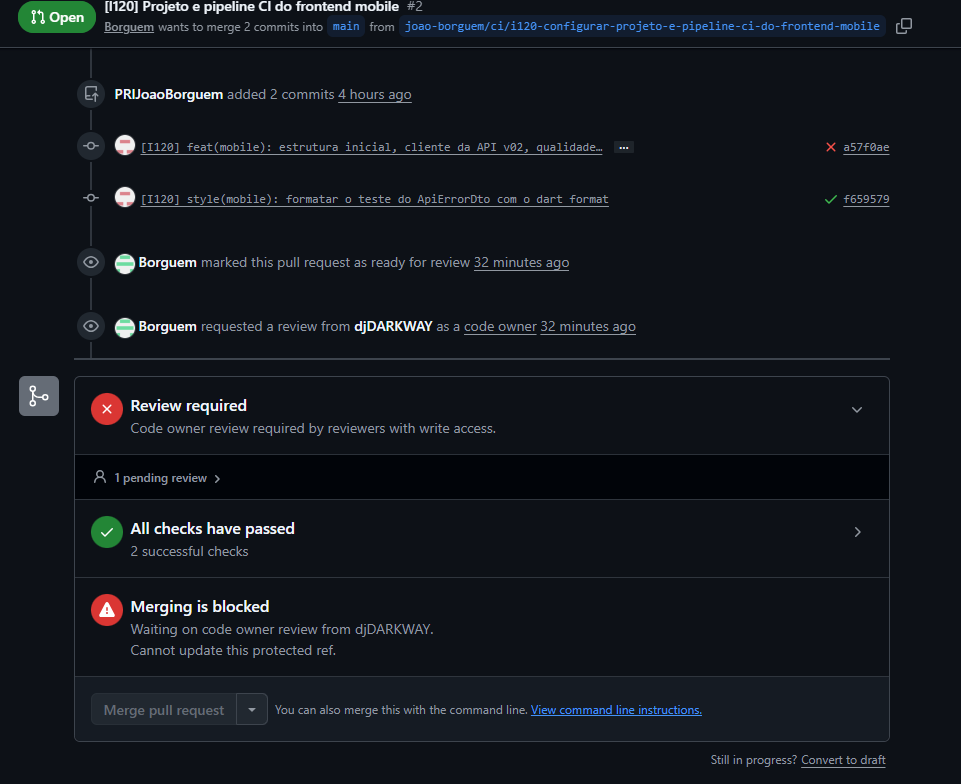
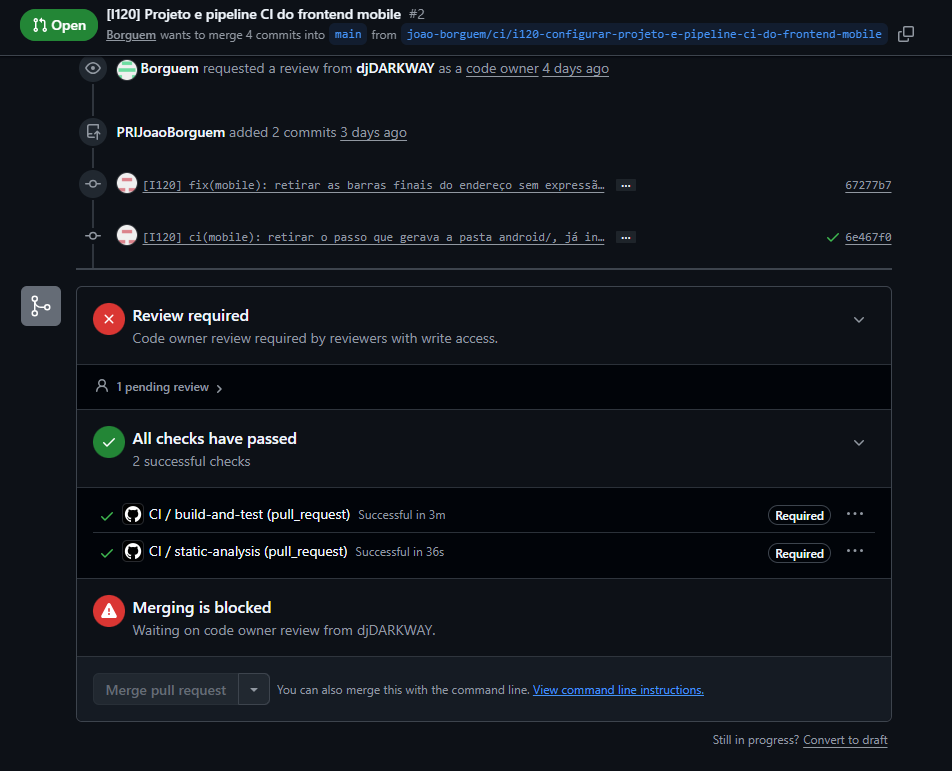
[I120] docs(ci-cd): melhorias da revisão — ligações M3/M4, W3, M1 sobre 6e467f0, rulesets, code owners e CI do backend

diff --git a/04-artefactos-tecnicos/04.16-ci-cd/m4-relatorio-evidencias-pipeline-ci-cd-frontends-v01.md b/04-artefactos-tecnicos/04.16-ci-cd/m4-relatorio-evidencias-pipeline-ci-cd-frontends-v01.md
@@ -28,6 +28,7 @@
 | Versão | Data | Descrição das alterações | Issue |
 | --- | --- | --- | --- |
 | v01 | 2026-11-05 | Criação do documento: pipelines dos dois frontends, uma execução de sucesso e três execuções bloqueadas em cada repositório (erro de build, cobertura inferior a 40% e análise estática falhada) e regras de proteção da `main`. | `I120` |
+| v01 (revisão) | 2026-11-10 | Melhorias da revisão da `I120`: ligações das execuções M3 e M4 corrigidas (M01); W3 com 5 dos 7 ficheiros de testes retirados (M03); M1 sobre `6e467f0`, com a função sem expressão regular do mobile (M02) e sem o passo que gerava `android/` (M04); rulesets recriados sem «Restrict updates» e code owners (M06); verificação do CI do backend depois da reescrita do secret (M07). | `I120` |
 
 ---
 
@@ -92,14 +93,14 @@ Os ficheiros são cópias exatas dos ramos da I120 nas versões indicadas na sec
 | --- | --- | --- | --- | --- | --- | --- | --- |
 | W1 | web | Sucesso | [#2](https://github.com/katch-lds/katch-frontend-web/pull/2) | `3b9c1ae38f1a0130d22f23bf0a021003a78fcd72` | Versão entregue da `I120` | Dois jobs com sucesso; Quality Gate OK | [42114963370](https://github.com/katch-lds/katch-frontend-web/actions/runs/42114963370) |
 | W2 | web | Bloqueio por build falhado (QG-01) | [#3](https://github.com/katch-lds/katch-frontend-web/pull/3) | `c487c25ea5c4508f00db4a5e3b4f4687963cb718` | `const erroDeCompilacao: number = 'I120';` em `App.tsx` | `build-and-test` falha no QG-01; merge bloqueado | [42116725708](https://github.com/katch-lds/katch-frontend-web/actions/runs/42116725708) |
-| W3 | web | Bloqueio por cobertura inferior a 40% | [#4](https://github.com/katch-lds/katch-frontend-web/pull/4) | `d13c1eb9818092d2f9c780c2a3095852555cb52b` | Retirados 5 dos 6 ficheiros de testes | `build-and-test` e `static-analysis` falham nos testes com cobertura; merge bloqueado | [42116777547](https://github.com/katch-lds/katch-frontend-web/actions/runs/42116777547) |
+| W3 | web | Bloqueio por cobertura inferior a 40% | [#4](https://github.com/katch-lds/katch-frontend-web/pull/4) | `d13c1eb9818092d2f9c780c2a3095852555cb52b` | Retirados 5 dos 7 ficheiros de testes | `build-and-test` e `static-analysis` falham nos testes com cobertura; merge bloqueado | [42116777547](https://github.com/katch-lds/katch-frontend-web/actions/runs/42116777547) |
 | W4 | web | Bloqueio por análise estática falhada (QG-05) | [#5](https://github.com/katch-lds/katch-frontend-web/pull/5) | `9516a4f93cdcd0809fdd1025bc8336b1bc17085a` | `HttpApiClientCopia.ts`, cópia integral do cliente da API | `static-analysis` falha no Quality Gate (duplicação acima de 3%); merge bloqueado | [42123724658](https://github.com/katch-lds/katch-frontend-web/actions/runs/42123724658) |
-| M1 | mobile | Sucesso | [#2](https://github.com/katch-lds/katch-frontend-mobile/pull/2) | `f6595791d64702b377bce1a82eb770f8c06bb815` | Versão entregue da `I120` | Dois jobs com sucesso | [42078961190](https://github.com/katch-lds/katch-frontend-mobile/actions/runs/42078961190) |
+| M1 | mobile | Sucesso | [#2](https://github.com/katch-lds/katch-frontend-mobile/pull/2) | `6e467f0` (antes: `f6595791d64702b377bce1a82eb770f8c06bb815`) | Versão entregue da `I120` | Dois jobs com sucesso | [checks do PR #2](https://github.com/katch-lds/katch-frontend-mobile/pull/2/checks) (antes: [42078961190](https://github.com/katch-lds/katch-frontend-mobile/actions/runs/42078961190)) |
 | M2 | mobile | Bloqueio por build falhado (QG-01) | [#3](https://github.com/katch-lds/katch-frontend-mobile/pull/3) | `7afc7edec242caf2e7955bd23e21dfe2864c82ac` | `final int erroDeCompilacao = 'I120';` em `main.dart` | `build-and-test` falha no QG-01; `static-analysis` também, pela mesma causa; merge bloqueado | [42116440559](https://github.com/katch-lds/katch-frontend-mobile/actions/runs/42116440559) |
-| M3 | mobile | Bloqueio por cobertura inferior a 40% | [#5](https://github.com/katch-lds/katch-frontend-mobile/pull/5) | `090ec6434fb5efd50b4c832f84fc792d5b908252` | Retirados os testes do cliente da API, dos modelos, do monitor, da consulta periódica e da configuração | `build-and-test` falha no passo da cobertura; merge bloqueado | [42116557654](https://github.com/katch-lds/katch-frontend-mobile/actions/runs/42116557654) |
-| M4 | mobile | Bloqueio por análise estática falhada (QG-05) | [#4](https://github.com/katch-lds/katch-frontend-mobile/pull/4) | `8d6d313428aca59b3229b964689f274eea8d0858` | `print('Prova de bloqueio da I120');` em `main.dart` | `static-analysis` falha no `flutter analyze` (`avoid_print`); merge bloqueado | [42116616608](https://github.com/katch-lds/katch-frontend-mobile/actions/runs/42116616608) |
+| M3 | mobile | Bloqueio por cobertura inferior a 40% | [#5](https://github.com/katch-lds/katch-frontend-mobile/pull/5) | `090ec6434fb5efd50b4c832f84fc792d5b908252` | Retirados os testes do cliente da API, dos modelos, do monitor, da consulta periódica e da configuração | `build-and-test` falha no passo da cobertura; merge bloqueado | [42116616608](https://github.com/katch-lds/katch-frontend-mobile/actions/runs/42116616608) |
+| M4 | mobile | Bloqueio por análise estática falhada (QG-05) | [#4](https://github.com/katch-lds/katch-frontend-mobile/pull/4) | `8d6d313428aca59b3229b964689f274eea8d0858` | `print('Prova de bloqueio da I120');` em `main.dart` | `static-analysis` falha no `flutter analyze` (`avoid_print`); merge bloqueado | [42116557654](https://github.com/katch-lds/katch-frontend-mobile/actions/runs/42116557654) |
 
-Todas as execuções são do evento `pull_request` de 2026-11-05.
+Todas as execuções são do evento `pull_request` de 2026-11-05, exceto a M1 final, de 2026-11-06, sobre `6e467f0`.
 
 ---
 
@@ -140,7 +141,7 @@ A primeira execução sobre `2b6bb46` falhou no Quality Gate com fiabilidade C: 
 | Merge Request | <https://github.com/katch-lds/katch-frontend-web/pull/4> (fechado sem merge) |
 | Execução | <https://github.com/katch-lds/katch-frontend-web/actions/runs/42116777547> |
 | Commit | `d13c1eb` — «[I120] test(ci): prova de bloqueio da cobertura, testes retirados no frontend web (não integrar)» (2026-11-05 21:47) |
-| Alteração | Retirados `ApiError.test.ts`, `ConnectionMonitor.test.ts`, `HttpApiClient.test.ts`, `PollingLoop.test.ts` e `SessionStore.test.ts`; fica só o teste da `App` |
+| Alteração | Retirados `ApiError.test.ts`, `ConnectionMonitor.test.ts`, `HttpApiClient.test.ts`, `PollingLoop.test.ts` e `SessionStore.test.ts`; ficam os testes da `App` e de `utils/url` |
 | Causa do bloqueio | Os testes que restam passam, mas o Jest termina sem sucesso porque a cobertura de linhas fica abaixo do limiar de 40% (`coverageThreshold`): `build-and-test` falha no passo dos testes com cobertura. O `static-analysis` falha também, no passo que corre os mesmos testes para a cobertura importada, pela mesma causa (como na execução E3 do backend). |
 
 ![W3 — bloqueio por cobertura inferior a 40%](evidencias/i120-web-04-bloqueio-cobertura.png)
@@ -168,12 +169,12 @@ A primeira versão desta prova (`14aa07b`) copiou o cliente da API anterior à c
 | Campo | Informação |
 | --- | --- |
 | Merge Request | <https://github.com/katch-lds/katch-frontend-mobile/pull/2> |
-| Execução | <https://github.com/katch-lds/katch-frontend-mobile/actions/runs/42078961190> |
-| Commit | `f659579` — «[I120] style(mobile): formatar o teste do ApiErrorDto com o dart format» (2026-11-05 17:53), sobre `a57f0ae` (estrutura inicial, 17:31) |
-| `build-and-test` | Sucesso: testes unitários e de widget, cobertura de linhas acima de 40% e APK de depuração |
-| `static-analysis` | Sucesso: `dart format` sem alterações e `flutter analyze` sem ocorrências |
+| Execução | Checks do PR #2 sobre `6e467f0`: <https://github.com/katch-lds/katch-frontend-mobile/pull/2/checks>. Primeira execução de sucesso, sobre `f659579`: <https://github.com/katch-lds/katch-frontend-mobile/actions/runs/42078961190> |
+| Commit | `6e467f0` — «[I120] ci(mobile): retirar o passo que gerava a pasta android/, já integrada no repositório» (2026-11-06 16:18), sobre `67277b7` — «[I120] fix(mobile): retirar as barras finais do endereço sem expressão regular, como no web» (16:18), `f659579` (formatação, 2026-11-05 17:53) e `a57f0ae` (estrutura inicial, 17:31) |
+| `build-and-test` | Sucesso: 16 testes unitários e de widget, cobertura de linhas acima de 40% e APK de depuração (3 min) |
+| `static-analysis` | Sucesso: `dart format` sem alterações e `flutter analyze` sem ocorrências (36 s) |
 
-A primeira execução sobre `a57f0ae` falhou no `dart format` (um ficheiro de teste por formatar); o commit `f659579` corrigiu-o.
+A primeira execução sobre `a57f0ae` falhou no `dart format` (um ficheiro de teste por formatar); o commit `f659579` corrigiu-o. Depois da revisão, o `67277b7` substituiu a expressão regular `/+$` do `AppConfig` e do `HttpApiClient` pela função `trimTrailingSlashes` (`lib/core/url.dart`, com teste), como no web (W1), e o `6e467f0` retirou os passos que geravam e publicavam a pasta `android/`, já integrada no repositório. A captura mostra os dois checks com sucesso e a marca *Required*, e o merge à espera da revisão do code owner.
 
 ![M1 — execução de sucesso](evidencias/i120-mobile-01-execucao-sucesso.png)
 
@@ -194,7 +195,7 @@ A primeira execução sobre `a57f0ae` falhou no `dart format` (um ficheiro de te
 | Campo | Informação |
 | --- | --- |
 | Merge Request | <https://github.com/katch-lds/katch-frontend-mobile/pull/5> (fechado sem merge) |
-| Execução | <https://github.com/katch-lds/katch-frontend-mobile/actions/runs/42116557654> |
+| Execução | <https://github.com/katch-lds/katch-frontend-mobile/actions/runs/42116616608> |
 | Commit | `090ec64` — «[I120] test(ci): prova de bloqueio da cobertura, testes retirados no frontend mobile (não integrar)» (2026-11-05 21:49) |
 | Alteração | Retirados os testes do `ApiErrorDto`, do `ConnectionMonitor`, do `PollingLoop` e do `AppConfig`; o teste do cliente da API fica reduzido à criação do cliente |
 | Causa do bloqueio | Os testes que restam passam, mas `build-and-test` falha no passo «Cobertura de linhas ≥ 40%», com a anotação «Cobertura insuficiente». O `static-analysis` passa. |
@@ -206,7 +207,7 @@ A primeira execução sobre `a57f0ae` falhou no `dart format` (um ficheiro de te
 | Campo | Informação |
 | --- | --- |
 | Merge Request | <https://github.com/katch-lds/katch-frontend-mobile/pull/4> (fechado sem merge) |
-| Execução | <https://github.com/katch-lds/katch-frontend-mobile/actions/runs/42116616608> |
+| Execução | <https://github.com/katch-lds/katch-frontend-mobile/actions/runs/42116557654> |
 | Commit | `8d6d313` — «[I120] test(ci): prova de bloqueio QG-05, print no código do frontend mobile (não integrar)» (2026-11-05 21:50) |
 | Alteração | `print('Prova de bloqueio da I120');` em `lib/main.dart` |
 | Causa do bloqueio | O build e os testes passam (`build-and-test` com sucesso), mas o `static-analysis` falha no passo «QG-05 Análise estática (Dart analyzer com flutter_lints)»: a regra `avoid_print` gera uma ocorrência de nível info, tratada como erro por `--fatal-infos`. |
@@ -217,11 +218,13 @@ A primeira execução sobre `a57f0ae` falhou no `dart format` (um ficheiro de te
 
 ## 7. Regras de proteção da `main`
 
-Cada repositório tem o ruleset «Protect main», aplicado ao ramo predefinido (`main`): «Restrict updates» e «Restrict deletions», Pull Request obrigatório com 1 aprovação e revisão do code owner, os checks `build-and-test` e `static-analysis` obrigatórios, com o ramo atualizado antes do merge, e «Block force pushes». Nas capturas W1 a W4 e M1 a M4, os dois checks aparecem com a marca *Required*; nas execuções de bloqueio, o Merge Request mostra o check obrigatório falhado e *Merging is blocked*, com o botão de merge indisponível.
+Cada repositório tem o ruleset «Protect main», ativo e aplicado ao ramo predefinido (`main`), sem lista de bypass: «Restrict deletions»; Pull Request obrigatório com 1 aprovação e revisão do code owner; os checks `build-and-test` e `static-analysis` obrigatórios (GitHub Actions), com o ramo atualizado antes do merge; e «Block force pushes». Os métodos de merge permitidos pelo ruleset são Merge, Squash e Rebase; o Merge Commit pelo Revisor é regra do grupo (Regulamento Interno, secção 10.4). Nas capturas W1 a W4 e M1 a M4, os dois checks aparecem com a marca *Required*; nas execuções de bloqueio, o Merge Request mostra o check obrigatório falhado e *Merging is blocked*, com o botão de merge indisponível.
 
 A mensagem *Merging is blocked* refere também a revisão do code owner, que é outra condição da mesma regra. Mesmo com a aprovação, o merge continuaria impedido enquanto um check obrigatório falhasse. Nos Merge Requests W1 e M1, os dois checks passaram e o merge fica dependente só da revisão e da aceitação da `I120`.
 
-Os dois rulesets incluem a regra «Restrict updates», que só deixa atualizar a `main` a quem tem permissão de bypass. Foi esta regra que, no backend, impediu o merge pelo Revisor e levou à NC-014, depois da qual foi retirada do ruleset do `katch-backend`. Se se mantiver nos frontends, o Revisor da `I120` (e das Issues seguintes) não consegue fazer o merge sem bypass; a regra deve ser revista pelo administrador antes da aceitação.
+Os rulesets foram recriados a 2026-11-06 sem a regra «Restrict updates», que só deixava atualizar a `main` a quem tivesse permissão de bypass e que, no backend, impediu o merge pelo Revisor (NC-014). Assim, o Revisor pode integrar o Merge Request depois das aprovações exigidas.
+
+Os code owners (`.github/CODEOWNERS`) diferem entre os repositórios porque seguem os responsáveis de cada repositório (Regulamento Interno, secções 10.1 e 14.2): `@RobertoBatista28` (Roberto Baptista) no `katch-frontend-web` e `@djDARKWAY` (João Coelho) no `katch-frontend-mobile`. No web, a revisão do code owner é pedida a Roberto Baptista, além da aprovação do Revisor da Issue.
 
 ![Ruleset «Protect main» do katch-frontend-web](evidencias/i120-web-06-regra-protecao-main.png)
 
@@ -232,6 +235,7 @@ Os dois rulesets incluem a regra «Restrict updates», que só deixa atualizar a
 ## 8. Credenciais e limitações
 
 - **Credenciais:** o único secret é o `SONAR_ADMIN_PASSWORD` do `katch-frontend-web`; o token da análise é gerado em cada execução. Ambos ficam mascarados nos logs, e nenhuma captura mostra segredos. O mobile não usa secrets. A configuração por ambiente (`.env.development` e `.env.example` no web; `--dart-define=API_BASE_URL` no mobile) não contém segredos.
+- **Secret do backend:** o `SONAR_ADMIN_PASSWORD` do `katch-backend` foi reescrito durante a `I120`. O CI do backend foi executado depois na `main` (execução n.º 144 do workflow `CI`, manual) e terminou com sucesso, incluindo a análise SonarQube e o Quality Gate.
 - **SonarQube no mobile:** ver a secção 3.2 e a NC-033.
 - **QG-06 e QG-07:** os passos estão preparados e correm logo que existam os testes de sistema (`playwright.config.ts` no web; `integration_test/*_test.dart` no mobile). Não foram exercitados nesta Issue.
 - **Versões:** TypeScript 6.0 em vez da 7.0.x das convenções (o `typescript-eslint` 8 não suporta a 7) e ESLint 10 com `eslint.config.js` em vez de `.eslintrc.json`. Ficam abrangidos pela ação corretiva da NC-033.
